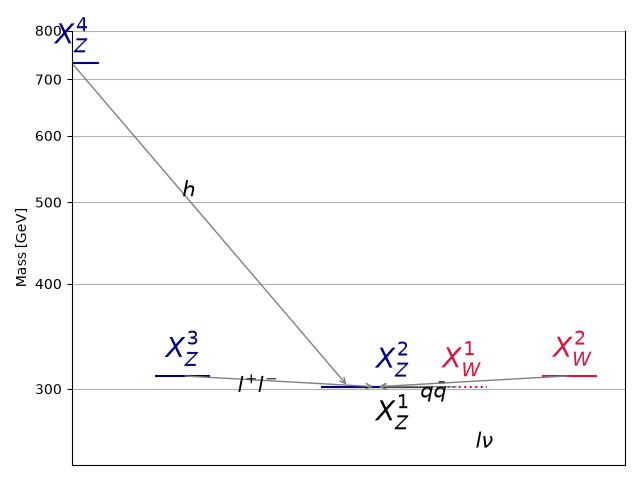
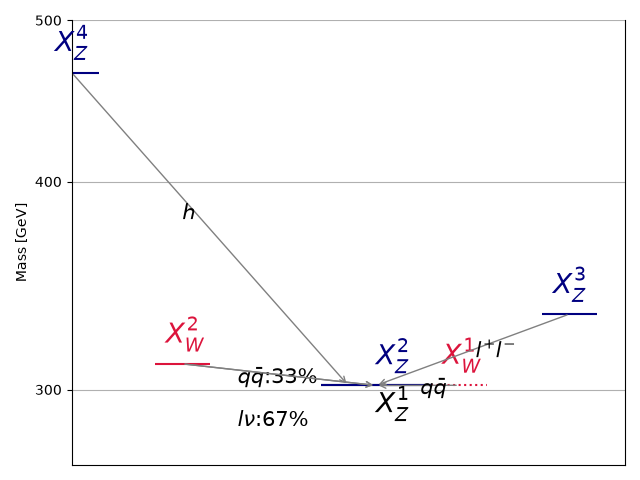
automated update by plotHiscore.py to walk322_5:     K=-80.505 TL=11.60 walkerid=554

diff --git a/protomodels/walk322_5/index.html b/protomodels/walk322_5/index.html
@@ -1,27 +1,27 @@
 <html>
 <body>
 <center>
-<table><td><h1>Current best protomodel: <i>K</i>=-80.98, <i>TL</i>=11.62</h1><td><img height=60px src=https://smodels.github.io//protomodels/logos/protomodel_lego.png></table>
+<table><td><h1>Current best protomodel: <i>K</i>=-80.51, <i>TL</i>=11.60</h1><td><img height=60px src=https://smodels.github.io//protomodels/logos/protomodel_lego.png></table>
 </center>
-<b><a href=./hiscore.slha>ProtoModel</a> <a href=./pmodel.dict>(dict)</a> produced with <a href=https://smodels.github.io//docs/Validation321>database v3.2.1</a>, allowed_extr 0.0 in walker 544 step 34.</b> <br>
+<b><a href=./hiscore.slha>ProtoModel</a> <a href=./pmodel.dict>(dict)</a> produced with <a href=https://smodels.github.io//docs/Validation321>database v3.2.1</a>, allowed_extr 0.0 in walker 554 step 49.</b> <br>
 <table width=80%>
 <tr><td>
 <br><b>Critics:</b> passed both critics<br>
 <br><b>UL Critic: 1/1 analyses exclude</b><br>
-ATLAS-EXOT-2018-06:EM12:: <span style='color: darkred;'>r<sub>obs</sub>=1.737, r<sub>exp</sub>=1.449</span><br>
-ATLAS-SUSY-2018-19:SR_EW:: <span style='color: darkgreen;'>r<sub>obs</sub>=0.274, r<sub>exp</sub>=0.267</span><br>
-CMS-EXO-20-004:SR_2018_22:: <span style='color: darkgreen;'>r<sub>obs</sub>=0.244, r<sub>exp</sub>=0.391</span><br>
-<br><b>LLHD Critic:</b> ATLAS-EXOT-2018-06:EM12, CMS-EXO-20-004:matrix.cov, ATLAS-SUSY-2018-19:SR_EW:: <span style='color: darkred;'>r<sub>obs</sub>=1.16, r<sub>exp</sub>=1.88</span><br>
+ATLAS-EXOT-2018-06:EM12:: <span style='color: darkred;'>r<sub>obs</sub>=1.73, r<sub>exp</sub>=1.443</span><br>
+ATLAS-SUSY-2018-19:SR_EW:: <span style='color: darkgreen;'>r<sub>obs</sub>=0.286, r<sub>exp</sub>=0.279</span><br>
+CMS-EXO-20-004:SR_2018_22:: <span style='color: darkgreen;'>r<sub>obs</sub>=0.243, r<sub>exp</sub>=0.39</span><br>
+<br><b>LLHD Critic:</b> ATLAS-EXOT-2018-06:EM12, CMS-EXO-20-004:matrix.cov, ATLAS-SUSY-2018-19:SR_EW:: <span style='color: darkred;'>r<sub>obs</sub>=1.16, r<sub>exp</sub>=1.87</span><br>
 </ul>
-<td><img width=600px src=./texdoc.png?1793446076>
-<br><span style='font-size: smaller; color: darkred;'>Last updated: Sat Oct 31 12:27:56 2026</span>
+<td><img width=600px src=./texdoc.png?1793448274>
+<br><span style='font-size: smaller; color: darkred;'>Last updated: Sat Oct 31 13:04:34 2026</span>
 <br><br><b>6 predictions available. Highest r values are:</b><br><ul>
-<li><a href=https://atlas.web.cern.ch/Atlas/GROUPS/PHYSICS/PAPERS/EXOT-2018-06/>ATLAS-EXOT-2018-06</a>:EM12:TChiISR r=1.74, r<sub>exp</sub>=1.45<br>
-<li><a href=https://atlas.web.cern.ch/Atlas/GROUPS/PHYSICS/PAPERS/SUSY-2018-19/>ATLAS-SUSY-2018-19</a>:SR_EW:TDTM2F r=0.27, r<sub>exp</sub>=0.27<br>
+<li><a href=https://atlas.web.cern.ch/Atlas/GROUPS/PHYSICS/PAPERS/EXOT-2018-06/>ATLAS-EXOT-2018-06</a>:EM12:TChiISR r=1.73, r<sub>exp</sub>=1.44<br>
+<li><a href=https://atlas.web.cern.ch/Atlas/GROUPS/PHYSICS/PAPERS/SUSY-2018-19/>ATLAS-SUSY-2018-19</a>:SR_EW:TDTM2F r=0.29, r<sub>exp</sub>=0.28<br>
 <li><a href=http://cms-results.web.cern.ch/cms-results/public-results/publications/EXO-20-004/>CMS-EXO-20-004</a>:SR_2018_22:TChiISR r=0.24, r<sub>exp</sub>=0.39<br>
-<li><a href=https://atlas.web.cern.ch/Atlas/GROUPS/PHYSICS/PAPERS/SUSY-2016-06/>ATLAS-SUSY-2016-06</a>:SR_EW:TDTM2F r=0.07, r<sub>exp</sub>=0.06<br>
+<li><a href=https://atlas.web.cern.ch/Atlas/GROUPS/PHYSICS/PAPERS/SUSY-2016-06/>ATLAS-SUSY-2016-06</a>:SR_EW:TDTM2F r=0.08, r<sub>exp</sub>=0.06<br>
 </table><table style="width:80%">
-<td width=40%><img height=450px src=./mass_hierarchy.png?1793446076><td width=60%><font size=-3><iframe type="text/html" height="350px" width="100%" frameborder="0" src="./rawnumbers.html?1793446076"></iframe></font>
+<td width=40%><img height=450px src=./mass_hierarchy.png?1793448274><td width=60%><font size=-3><iframe type="text/html" height="350px" width="100%" frameborder="0" src="./rawnumbers.html?1793448274"></iframe></font>
 </table>
 </body>
 </html>
